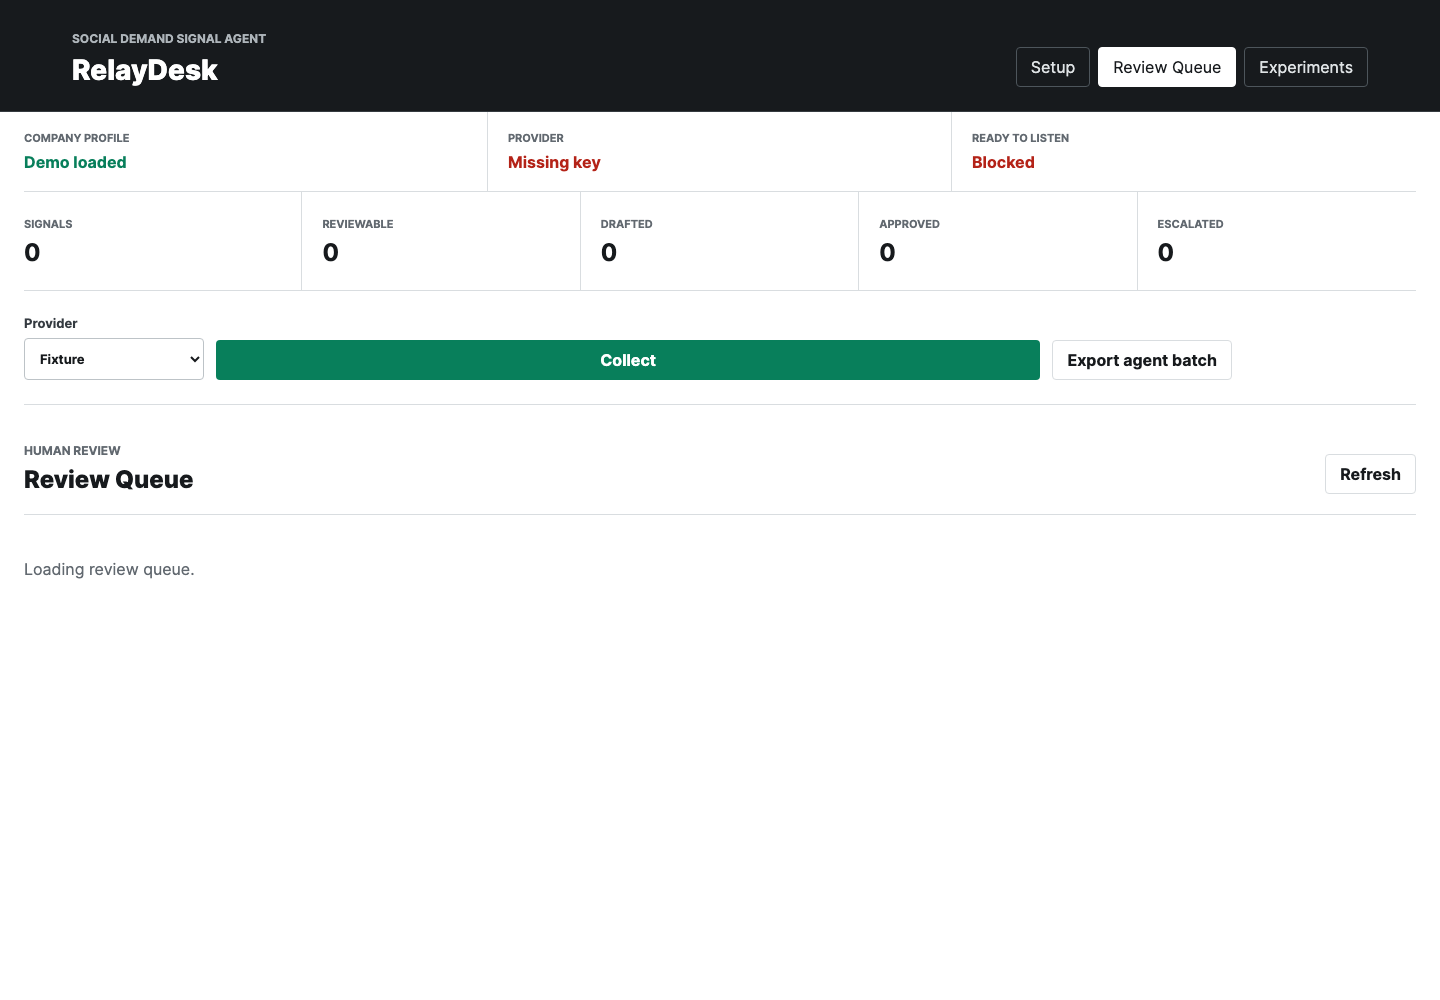
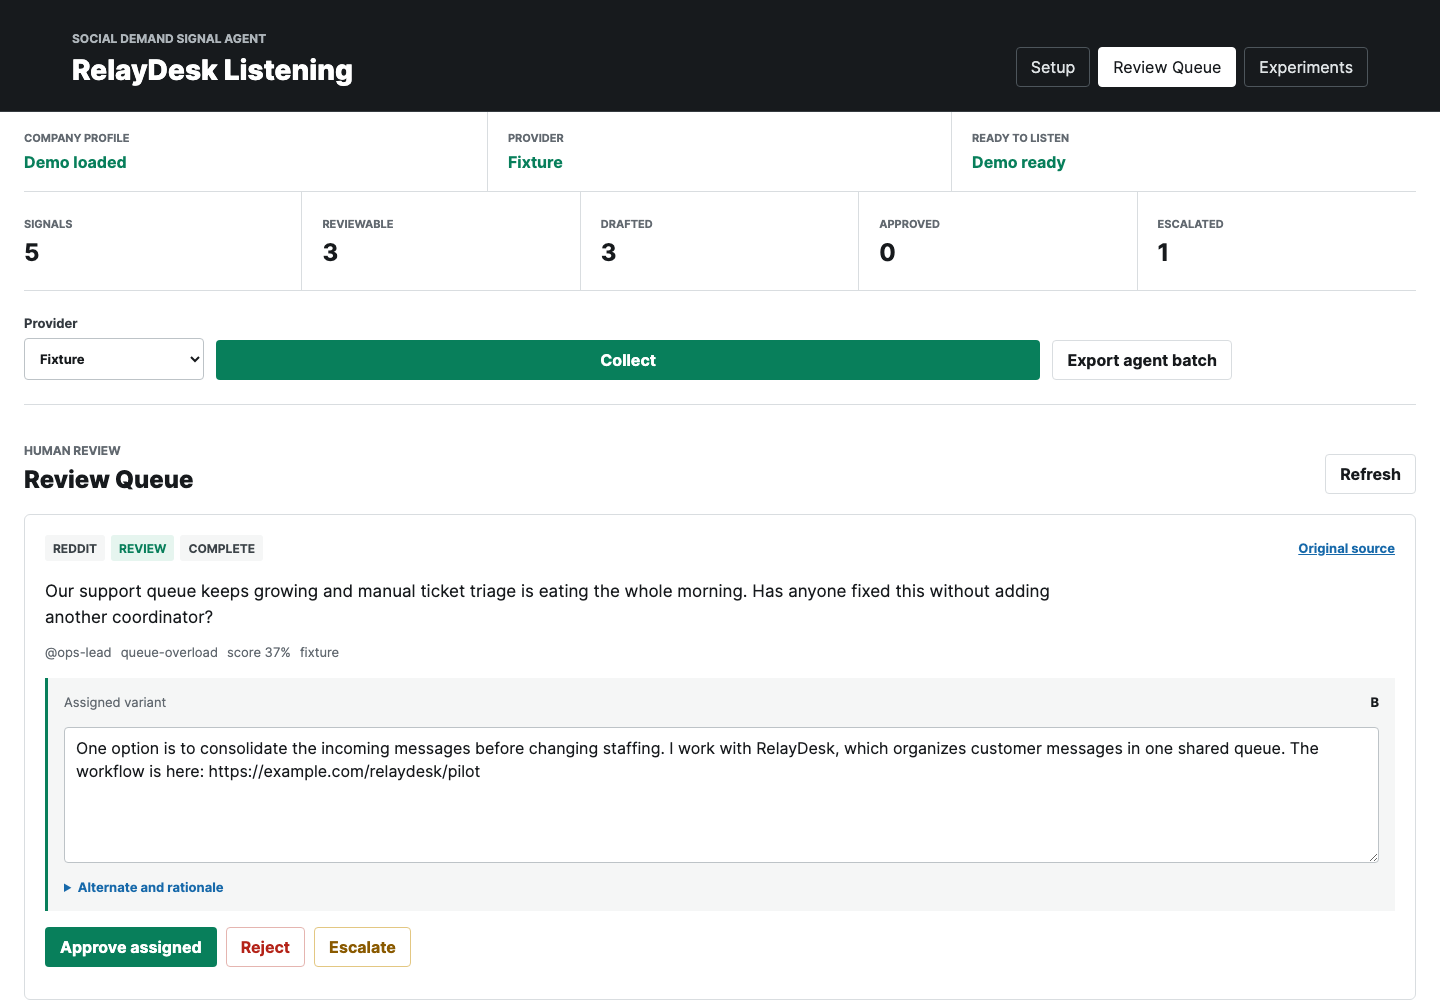
fix: polish fixture demo release proof

diff --git a/assets/app.js b/assets/app.js
@@ -151,8 +151,8 @@ function renderSetup(payload, populate = true) {
   const readiness = payload.readiness;
   const demo = readiness.profile_status === "demo";
   statusTone(el("profile-readiness"), readiness.profile_ready || demo, demo ? "Demo loaded" : readiness.profile_ready ? "Ready" : "Needs setup");
-  statusTone(el("provider-readiness"), readiness.provider_ready, readiness.provider_ready ? "Configured" : "Missing key");
-  statusTone(el("listening-readiness"), readiness.ready_to_listen, readiness.ready_to_listen ? "Ready" : "Blocked");
+  statusTone(el("provider-readiness"), readiness.provider_ready || demo, demo ? "Fixture" : readiness.provider_ready ? "Configured" : "Missing key");
+  statusTone(el("listening-readiness"), readiness.ready_to_listen || demo, demo ? "Demo ready" : readiness.ready_to_listen ? "Ready" : "Blocked");
   const provider = payload.provider;
   el("provider-state").textContent = provider.connection_state.replace("_", " ");
   el("provider-state").className = `status-text ${provider.connection_state === "connected" ? "ready" : provider.connection_state === "failed" ? "not-ready" : ""}`;

diff --git a/tests/test_release.py b/tests/test_release.py
@@ -27,6 +27,8 @@ class ReleaseTests(unittest.TestCase):
         self.assertIn("Get a SocialCrawl key", html)
         self.assertIn("clientErrors", js)
         self.assertIn("updateCollectAvailability", js)
+        self.assertIn('demo ? "Fixture"', js)
+        self.assertIn('demo ? "Demo ready"', js)
 
     def test_frontend_has_accessible_setup_contracts(self) -> None:
         html = (ROOT / "assets/index.html").read_text()

diff --git a/GITHUB-PUBLISHING.md b/GITHUB-PUBLISHING.md
@@ -10,7 +10,10 @@
 
 ## Before publishing
 
-- [ ] Run the full test suite without skipped server tests.
+- [x] Create the public repository with fresh history and preserve launcher permissions.
+- [x] Push `main` after Jack's approval.
+- [x] Confirm the initial GitHub Actions CI run is green.
+- [x] Run the local unit, integration, clean-install, browser, archive, link, secret, and provenance checks.
 - [x] Run Agent Skills validation.
 - [x] Complete the clean-install and archive audits.
 - [x] Confirm release screenshots contain fixture data and no credentials.
@@ -20,9 +23,10 @@
 - [ ] Run one authenticated SocialCrawl connection and current-source contract check.
 - [x] Confirm the Git author and commit messages.
 - [x] Review README links and commands from the source archive.
-- [ ] Create the repository only after Jack approves.
-- [ ] Push `main` only after Jack approves.
-- [ ] Create the release only after Jack approves.
+- [ ] Add the repository website, topics, and social preview.
+- [ ] Confirm CI is green on the final release commit.
+- [x] Obtain Jack's approval to create the release.
+- [ ] Publish and verify the `v0.1.0` release and both downloads.
 
 ## Release files
 